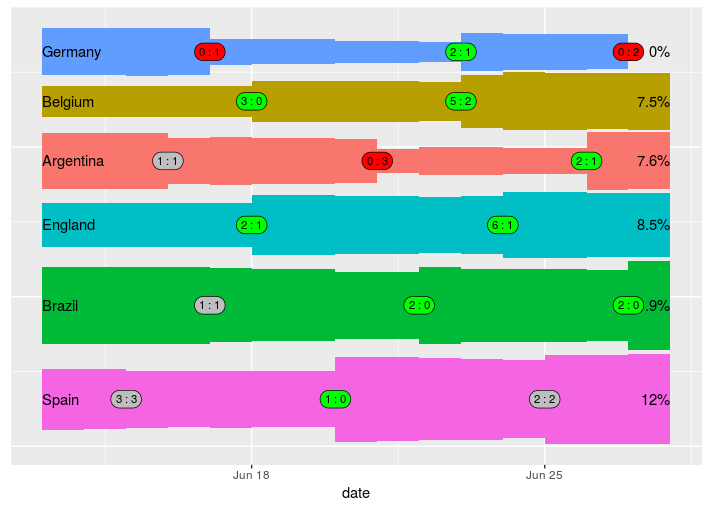
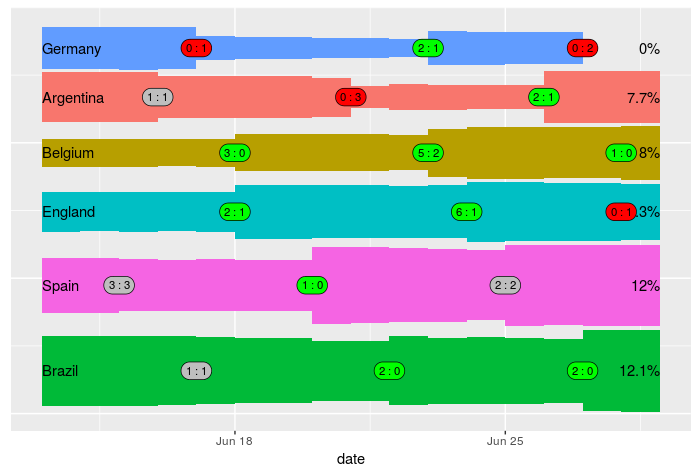
updated data and chart, rounds 1-3 completed

diff --git a/README.md b/README.md
@@ -20,6 +20,6 @@
 
 
 ## Some results
-This script in `R/fifa2018_results.R` is used to plot some results. The following chart shows the situation up until June 20, 2018. The percentage value shows the probability for the team to win the world cup. As you can see, England profits from the win against Tunisia and also how the chances for Germany are reduced after loosing against Mexico.
+This script in `R/fifa2018_results.R` is used to plot some results. The following chart shows the situation up until June 20, 2018. The percentage value shows the probability for the team to win the world cup. As you can see the chances for Germany are reduced after loosing against Mexico, then getting better after winning against Sweden and finally dropping to 0% when loosing against the Korea Republic. In the first simulation (before the world cup started), Brazil was scored best with 10%, followed by Spain (8%) and Argentina (7.5%). During the world cup positions changed a lot with Spai currently leading.
 
 ![intermediate results](images/chart.png)
